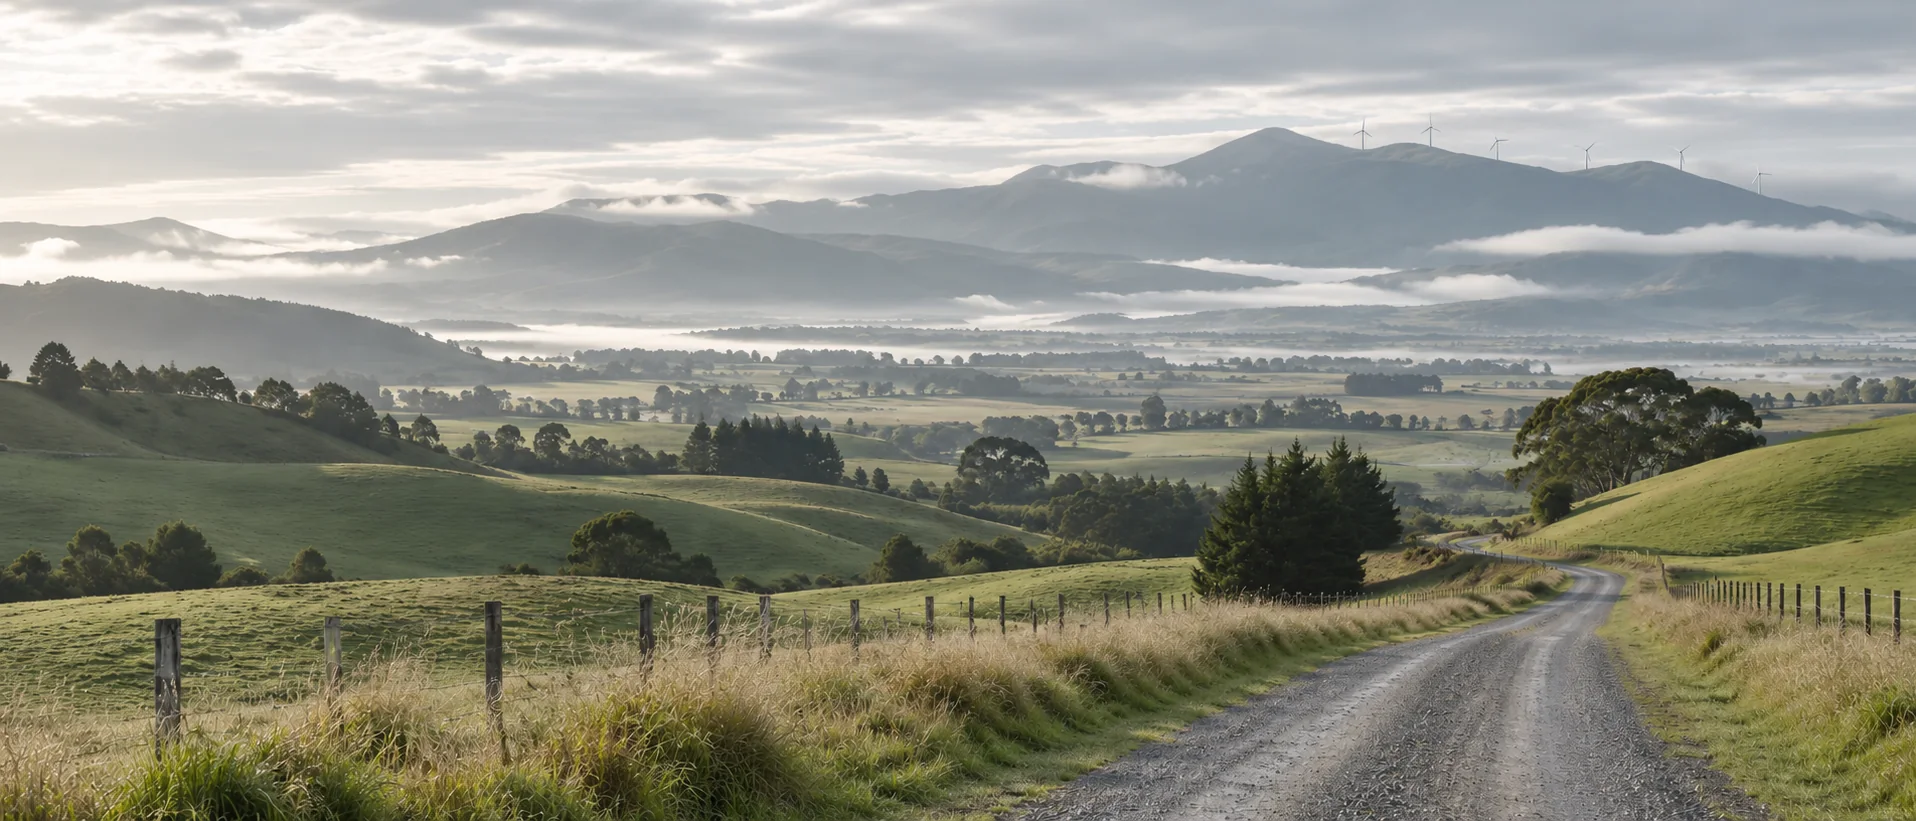
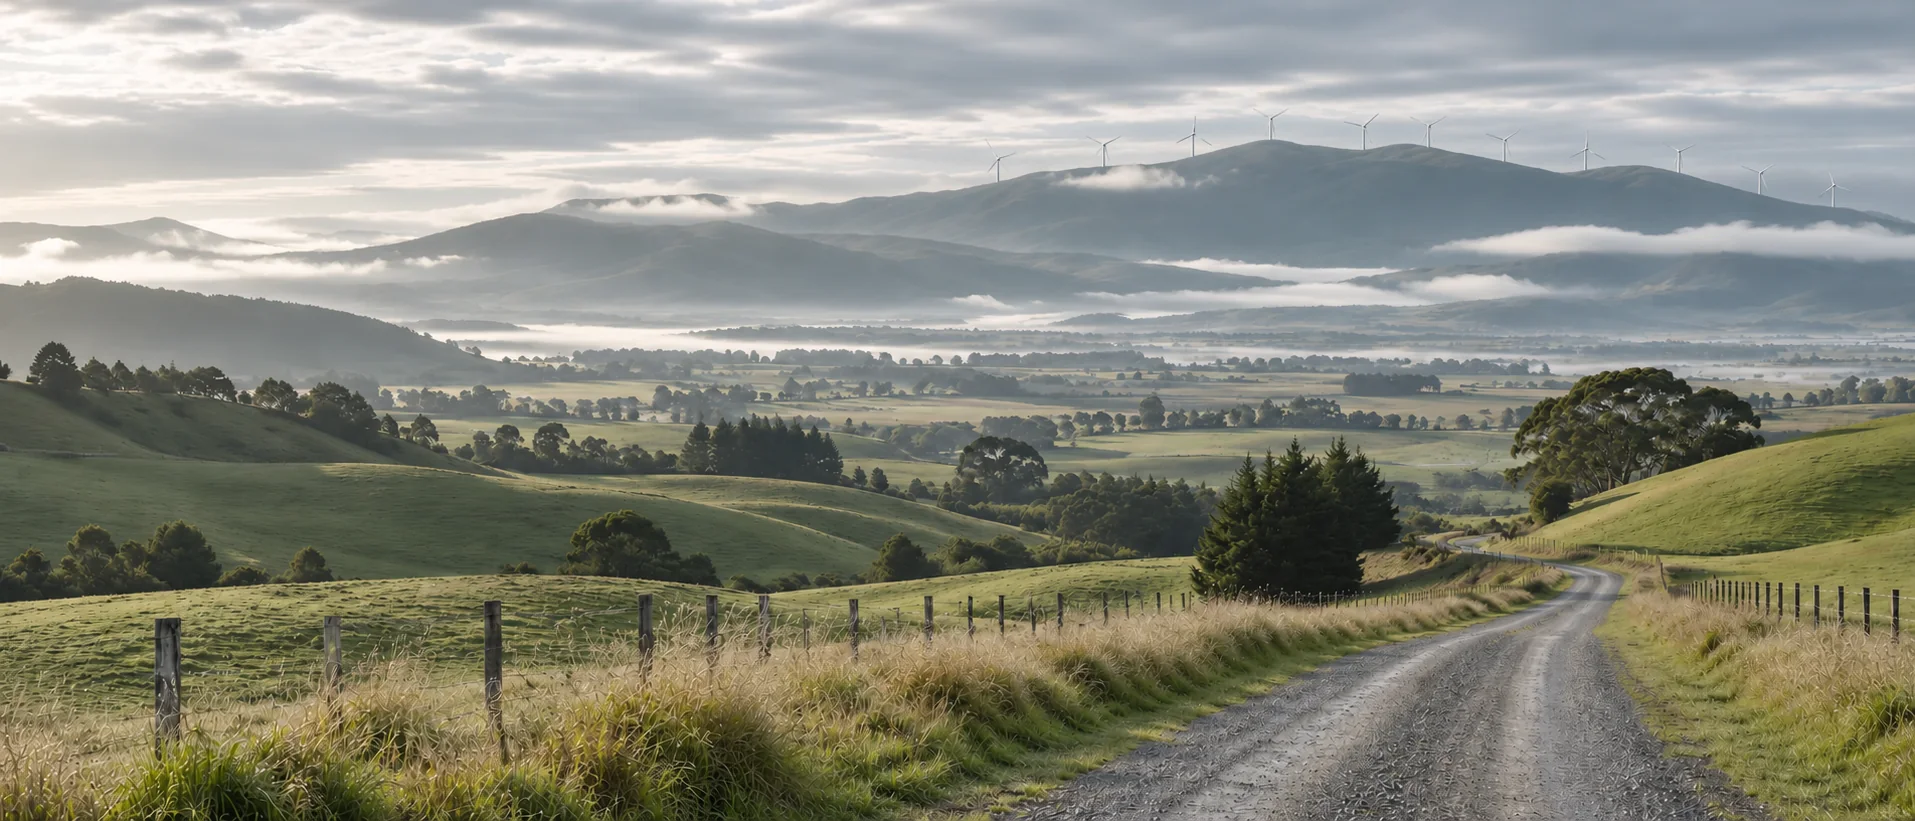
Update Site source

diff --git a/src/new.jsx b/src/new.jsx
@@ -9,8 +9,8 @@ import './v4.css';
 const OFFICE='admin@manawatuinsurance.co.nz';
 const phone='06 350 6800';
 const advisers=[
- {name:'John Dunlop',image:'/images/john.jpg',role:'Financial Adviser · Owner / Director',focus:'Business, farming and family protection',number:'0274 353 018',call:'tel:+64274353018',email:OFFICE,office:true},
- {name:'Shane Galloway',image:'/images/shane.jpg',role:'Broker · Owner / Director',focus:'Broking, underwriting and claims experience',number:'022 411 8105',call:'tel:+64224118105',email:OFFICE,office:true},
+ {name:'John Dunlop',image:'/images/john.jpg',role:'Financial Adviser · Owner / Director',focus:'Business, farming and family protection',number:'0274 353 018',call:'tel:+64274353018',email:'john@manawatuinsurance.co.nz'},
+ {name:'Shane Galloway',image:'/images/shane.jpg',role:'Broker · Owner / Director',focus:'Broking, underwriting and claims experience',number:'022 411 8105',call:'tel:+64224118105',email:'shane@manawatuinsurance.co.nz'},
  {name:'Kayne Dunlop',image:'/images/kayne.jpg',role:'Financial Adviser · Owner / Director',focus:'Personal risk, general insurance and KiwiSaver',number:'027 212 5504',call:'tel:+64272125504',email:'kayne@manawatuinsurance.co.nz'}
 ];
 const cover=[
